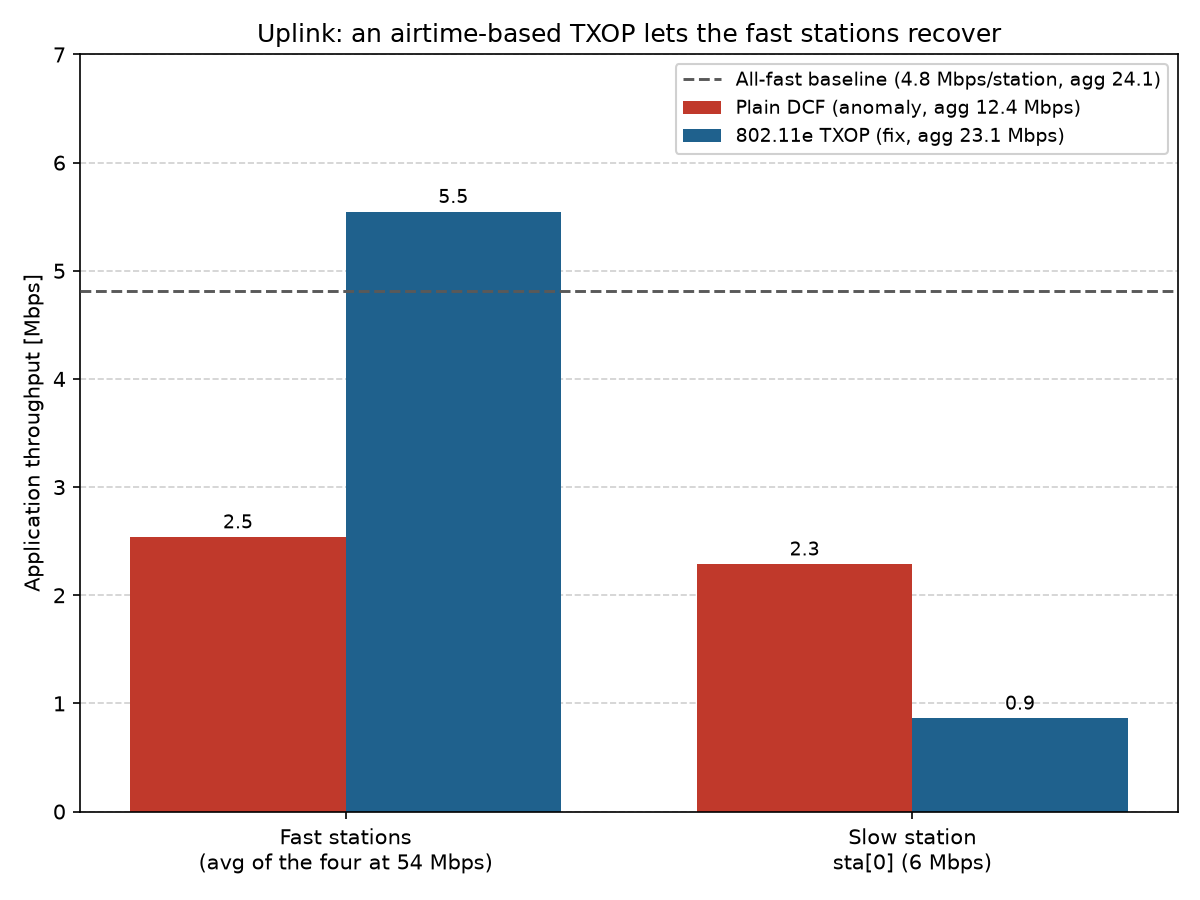
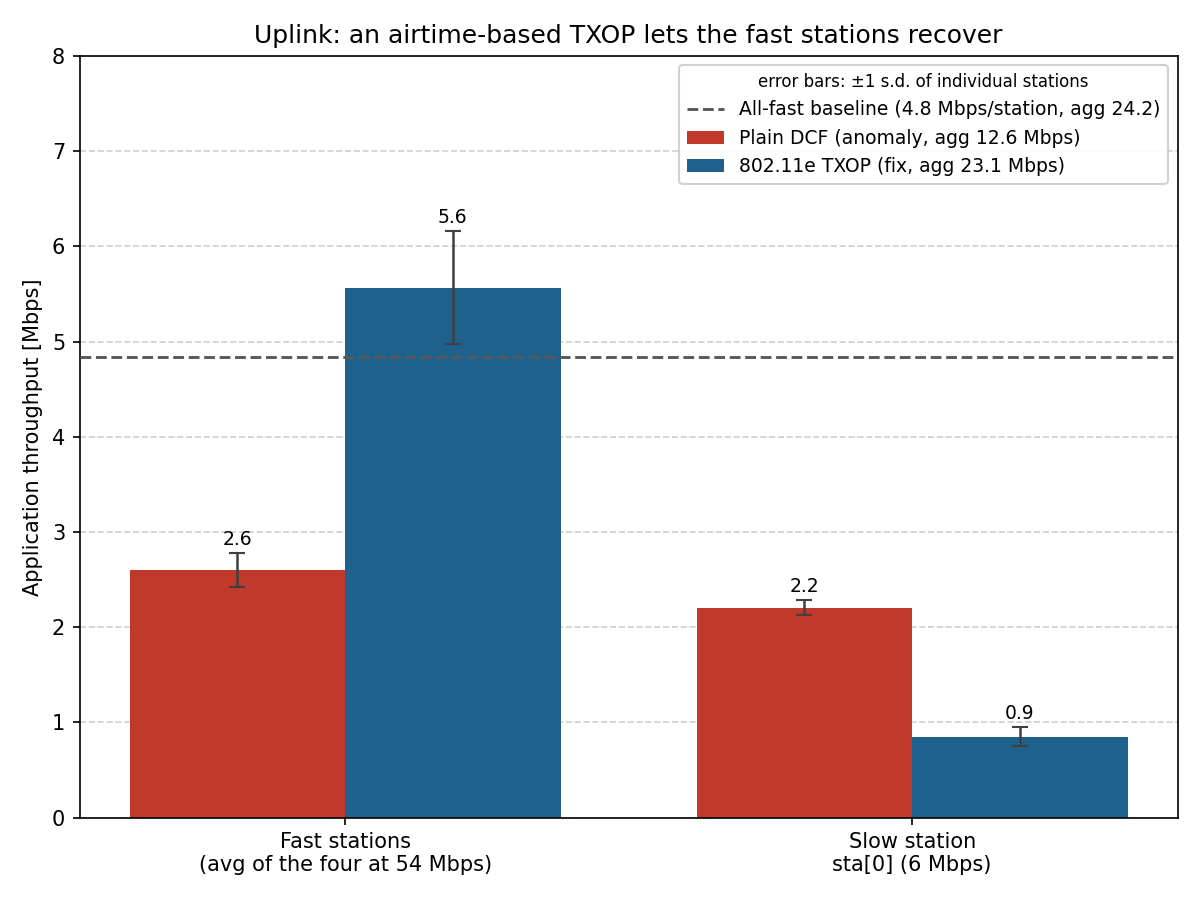
showcases/wireless/rateanomaly: re-measure the uplink over ten repetitions
Pre-association changed every uplink realisation, so all three figures and the
numbers quoted from them were re-recorded against the current configuration.

The TXOP comparison now averages ten repetitions rather than three and its bars
carry error bars: +-1 s.d. of the individual station values, which is the
quantity the page's caveat claims, not the uncertainty of the mean. That makes
the caveat's point visible instead of merely asserted -- the fast group scatters
+-0.6 Mbps under TXOP against +-0.2 under plain DCF, because EDCA allocates wins
at random and only bounds what a win is worth. Ten repetitions rather than three
because three points do not estimate a spread. The recorded commands now also
pass --vector-recording=false: the chart reads scalars only, and the vectors ran
to gigabytes.

The two single-run Results charts were re-rendered from fresh runs. Their seed
reads less flat than the previous one did -- the four fast stations agree within
about 9% and the slow station sits some 16% below them -- which is exactly the
structure the figure recipe records for n=10, so the prose now states it rather
than quoting a flatter single-run spread.

Group averages are essentially unchanged: TXOP 0.85 / 5.57 / 23.11 Mbps against
the published 0.86 / 5.55 / 23.1.

diff --git a/showcases/wireless/rateanomaly/ul-chart.py b/showcases/wireless/rateanomaly/ul-chart.py
@@ -1,8 +1,9 @@
 #!/usr/bin/env python3
 # Generates doc/media/txop-throughput.png: uplink application throughput under plain DCF (the
 # rate anomaly) vs 802.11e airtime-based TXOP, at a single 6-versus-54 Mbps rate gap. Both
-# configs are averaged over 3 repetitions -- DCF is not deterministic (the backoff draws from
-# the RNG), so both are averaged the same way.
+# configs are averaged over 10 repetitions -- DCF is not deterministic (the backoff draws from
+# the RNG), so both are averaged the same way. Ten rather than three because the bars carry
+# error bars, and three points do not estimate a spread.
 #
 # Plotted as the fast-station GROUP average and the slow station, with the aggregates carried
 # in the legend -- deliberately NOT per station. EDCA allocates wins at random and only bounds
@@ -14,9 +15,9 @@
 # The dashed line is the all-fast reference: UplinkHomogeneous, the same cell with no rate gap.
 #
 # Reproduce (from this showcase directory):
-#   inet -u Cmdenv -c UplinkHomogeneous -r 0..2 --repeat=3 --result-dir=results/solve
-#   inet -u Cmdenv -c UplinkAnomaly     -r 0..2 --repeat=3 --result-dir=results/solve
-#   inet -u Cmdenv -c UplinkTxop        -r 0..2 --repeat=3 --result-dir=results/solve
+#   inet -u Cmdenv -c UplinkHomogeneous -r 0..9 --repeat=10 --vector-recording=false --result-dir=results/solve
+#   inet -u Cmdenv -c UplinkAnomaly     -r 0..9 --repeat=10 --vector-recording=false --result-dir=results/solve
+#   inet -u Cmdenv -c UplinkTxop        -r 0..9 --repeat=10 --vector-recording=false --result-dir=results/solve
 #   python3 ul-chart.py
 #
 # The comparison results live in results/solve/ (not results/) so they do not contaminate the
@@ -40,15 +41,26 @@ def runs(config):
     return out
 
 def summarise(config):
+    """Slow station and fast-station group, each as (mean, sd), plus the mean aggregate.
+
+    The error bars are the spread of the INDIVIDUAL station values -- every sta[1..4] reading
+    from every repetition for the fast group, sta[0]'s ten readings for the slow one -- not the
+    uncertainty of the mean. They answer "how differently do two stations fare in one run",
+    which is what the page's caveat claims.
+    """
     r = runs(config)
     n = len(r)
-    return (sum(x[0] for x in r) / n,                 # slow station
-            sum(sum(x[1:]) / 4 for x in r) / n,       # fast-station average
-            sum(sum(x) for x in r) / n)               # aggregate
+    slow = [x[0] for x in r]
+    fast = [v for x in r for v in x[1:]]
+    return (mean_sd(slow), mean_sd(fast), sum(sum(x) for x in r) / n)
 
-dcf_slow, dcf_fast, dcf_agg = summarise("UplinkAnomaly")
-tx_slow, tx_fast, tx_agg = summarise("UplinkTxop")
-base_slow, base_fast, base_agg = summarise("UplinkHomogeneous")
+def mean_sd(v):
+    m = sum(v) / len(v)
+    return m, (sum((x - m) ** 2 for x in v) / (len(v) - 1)) ** 0.5
+
+(dcf_slow, dcf_slow_sd), (dcf_fast, dcf_fast_sd), dcf_agg = summarise("UplinkAnomaly")
+(tx_slow, tx_slow_sd), (tx_fast, tx_fast_sd), tx_agg = summarise("UplinkTxop")
+(base_slow, _), (base_fast, _), base_agg = summarise("UplinkHomogeneous")
 baseline = base_agg / 5   # all-fast, per-station
 
 x = np.arange(2)
@@ -57,9 +69,12 @@ plt.figure(figsize=(8, 6))
 ax = plt.gca()
 ax.axhline(baseline, color="0.35", ls="--", lw=1.4, zorder=3,
            label=f"All-fast baseline ({baseline:.1f} Mbps/station, agg {base_agg:.1f})")
+ebar = dict(capsize=4, ecolor="0.25", error_kw={"lw": 1.2, "zorder": 4})
 b1 = ax.bar(x - w/2, [dcf_fast, dcf_slow], w, color="#c0392b",
+            yerr=[dcf_fast_sd, dcf_slow_sd], **ebar,
             label=f"Plain DCF (anomaly, agg {dcf_agg:.1f} Mbps)")
 b2 = ax.bar(x + w/2, [tx_fast, tx_slow], w, color="#1f618d",
+            yerr=[tx_fast_sd, tx_slow_sd], **ebar,
             label=f"802.11e TXOP (fix, agg {tx_agg:.1f} Mbps)")
 ax.bar_label(b1, fmt="%.1f", padding=2, fontsize=9)
 ax.bar_label(b2, fmt="%.1f", padding=2, fontsize=9)
@@ -69,11 +84,12 @@ ax.set_ylabel("Application throughput [Mbps]")
 ax.set_title("Uplink: an airtime-based TXOP lets the fast stations recover")
 ax.grid(True, axis="y", linestyle="--", alpha=0.6)
 ax.set_axisbelow(True)
-ax.set_ylim(0, 7)
-ax.legend(loc="upper right", framealpha=0.9, fontsize=9)
+ax.set_ylim(0, 8)
+ax.legend(loc="upper right", framealpha=0.9, fontsize=9,
+          title="error bars: \u00b11 s.d. of individual stations", title_fontsize=8)
 plt.tight_layout()
 plt.savefig("doc/media/txop-throughput.png", dpi=150, transparent=True)
 print("saved doc/media/txop-throughput.png")
-print(f"  DCF   slow={dcf_slow:.2f} fast={dcf_fast:.2f} agg={dcf_agg:.1f}")
-print(f"  TXOP  slow={tx_slow:.2f} fast={tx_fast:.2f} agg={tx_agg:.1f}")
+print(f"  DCF   slow={dcf_slow:.2f}+-{dcf_slow_sd:.2f} fast={dcf_fast:.2f}+-{dcf_fast_sd:.2f} agg={dcf_agg:.1f}")
+print(f"  TXOP  slow={tx_slow:.2f}+-{tx_slow_sd:.2f} fast={tx_fast:.2f}+-{tx_fast_sd:.2f} agg={tx_agg:.1f}")
 print(f"  base  per-station={baseline:.2f} agg={base_agg:.1f}")

diff --git a/showcases/wireless/rateanomaly/doc/index.rst b/showcases/wireless/rateanomaly/doc/index.rst
@@ -215,7 +215,7 @@ table in this section each come from **one run**, so they show a concrete realis
 rather than an average: the anomaly aggregate reads 12.0 Mbps here, against 12.4 Mbps for the
 mean of the three runs used in the TXOP comparison later. The effect being shown is far larger
 than that scatter, but the per-station detail is not — the frame counts below, which by theory
-should be equal, still spread by about ±10% within a single run.
+should be equal, still spread by about ±9% among the fast stations within a single run.
 The two later charts that compare a *fix* against the anomaly do average three
 repetitions, because there the differences being plotted are comparable to the scatter.
 
@@ -249,7 +249,8 @@ level, settling just above the floor it sets:
 
 The reason is visible in the raw frame counts: over the measurement interval every
 station — fast or slow — successfully transmits a similar *number* of frames, about
-1,090 to 1,270 in this run — within ±10% of each other, against the six-fold airtime
+1,080 to 1,480 in this run: the four fast stations agree within about 9%, and the slow
+station sits some 16% below them — small change against the six-fold airtime
 difference that follows. DCF hands out transmission opportunities at roughly the same
 rate to everyone, exactly as designed. But each of the
 slow station's frame exchanges tied up the channel several times longer — around six
@@ -268,8 +269,8 @@ included — so it consumed most of the channel time and left little for the oth
              four fast stations agree within 8% and the slow station sits ~16% below them.
              How flat ONE run reads is pure seed luck, and the seed moved twice as the
              sweep was cut (6 points -> 4 -> none), because seed-set defaults to the run
-             number: bars were +-4% at seed 5, +-8% at seed 3, and are 1087..1268 (+-10%)
-             at seed 0 now. That is honest -- the prose quotes the +-10% spread -- but if
+             number: bars were +-4% at seed 5, +-8% at seed 3, and are 1080..1482 (+-15%)
+             at seed 0 now. That is honest -- the prose quotes the +-15% spread -- but if
              the figure ever needs to read flat, record 10+ reps rather than hunting for a
              flattering seed. The chart script averages duplicates, so reps just work.
    record:   inet -u Cmdenv -c UplinkHomogeneous -r 0
@@ -334,8 +335,8 @@ frame-count chart above), the slow station's far longer frames let it swallow a
 correspondingly larger share of channel time — dragging every station's throughput down
 toward its own.
 
-The cost to the network as a whole is severe. The aggregate falls from 24.1 Mbps in the
-baseline to 12.0 Mbps here — **one slow station halves the capacity of the entire cell**,
+The cost to the network as a whole is severe. The aggregate falls from 24.4 Mbps in the
+baseline to 12.9 Mbps here — **one slow station halves the capacity of the entire cell**,
 and it does so without any of the other four being misconfigured, weak, or overloaded. The
 fast stations' own throughput falls almost in step with the slow station's even though their
 configuration never changes. That is the rate anomaly: equal access, unequal airtime.
@@ -426,13 +427,17 @@ their throughput back:
    shows:    fast-station-average and slow-station application throughput, plain DCF vs
              802.11e TXOP, at the single 6-vs-54 Mbps rate gap; aggregates carried in the
              legend, all-fast baseline as a dashed line
-   inputs:   results/solve/{UplinkAnomaly,UplinkTxop,UplinkHomogeneous}-#*.sca, ALL 3 reps
-             (DCF is not deterministic -- same RNG/backoff -- so all three are averaged alike)
-   record:   inet -u Cmdenv -c UplinkHomogeneous -r 0..2 --repeat=3 --result-dir=results/solve
-             inet -u Cmdenv -c UplinkAnomaly     -r 0..2 --repeat=3 --result-dir=results/solve
-             inet -u Cmdenv -c UplinkTxop        -r 0..2 --repeat=3 --result-dir=results/solve
+   inputs:   results/solve/{UplinkAnomaly,UplinkTxop,UplinkHomogeneous}-#*.sca, ALL 10 reps
+             (DCF is not deterministic -- same RNG/backoff -- so all ten are averaged alike;
+             ten rather than three because the bars carry error bars)
+   record:   inet -u Cmdenv -c UplinkHomogeneous -r 0..9 --repeat=10 --vector-recording=false --result-dir=results/solve
+             inet -u Cmdenv -c UplinkAnomaly     -r 0..9 --repeat=10 --vector-recording=false --result-dir=results/solve
+             inet -u Cmdenv -c UplinkTxop        -r 0..9 --repeat=10 --vector-recording=false --result-dir=results/solve
    metric:   server.app[*] packetReceived:count x 0.002 -> Mbps; aggregate = sum over the 5
-             apps per run, fast-avg = mean over app[1..4]; all configs averaged over 3 reps
+             apps per run, fast-avg = mean over app[1..4]; all configs averaged over 10 reps.
+             Error bars are +-1 s.d. of the INDIVIDUAL station values (every sta[1..4] reading
+             from every rep for the fast bar, sta[0]'s ten readings for the slow one), not the
+             uncertainty of the mean
    anchor:   structural -- if the UplinkAnomaly/UplinkTxop configs change, re-derive. The
              comparison results are kept out of results/ root so they don't contaminate the
              single-run .anf charts (whose filters match packetReceived:count of any config).
@@ -441,10 +446,10 @@ their throughput back:
              ../dl-chart.py DOES plot per station because that scheduler is deterministic.
    stamp:    captured 2026-07, INET 4.6
 
-The fast-station average recovers from 2.5 Mbps under DCF to 5.5 Mbps under TXOP — better than
+The fast-station average recovers from 2.6 Mbps under DCF to 5.6 Mbps under TXOP — better than
 double, and comfortably past the 4.8 Mbps each station gets in the no-rate-gap baseline (the
-dashed line). The aggregate climbs from 12.4 to 23.1 Mbps, recovering nearly all of the 24.1
-Mbps the cell manages with no slow station at all. The slow station itself falls from 2.3 to
+dashed line). The aggregate climbs from 12.6 to 23.1 Mbps, recovering nearly all of the 24.2
+Mbps the cell manages with no slow station at all. The slow station itself falls from 2.2 to
 0.9 Mbps — and that *is* airtime fairness, not a side-effect: given only its fair share of
 time, a 6 Mbps station can clock out proportionally fewer bits, so it stops monopolising the
 medium and the others get their time back.
@@ -468,12 +473,15 @@ same principle — allocate channel *time*, not transmission *count* — but in 
 
 One honest caveat — and the reason the chart above plots a *group* average rather than the five
 stations separately. TXOP restores the aggregate capacity and the fast-station group reliably, but
-it does **not** hand each individual station equal airtime. Over ten seeds the four fast stations
-land anywhere between 4.1 and 6.8 Mbps around their 5.6 Mbps mean, because EDCA still allocates
-*wins* at random and only bounds what a win is worth; a station that wins a few more times in four
-seconds keeps the difference. The group average is steady across the same seeds — the aggregate
-stays within 22.2 to 24.6 Mbps — so the system-level result is robust where the per-station one is
-not. The downlink fix below *is* per-station fair, for a reason that is worth the contrast.
+it does **not** hand each individual station equal airtime — which is what the error bars show.
+Over the ten repetitions the four fast stations land anywhere between 4.1 and 6.8 Mbps around
+their 5.6 Mbps mean, because EDCA still allocates *wins* at random and only bounds what a win is
+worth; a station that wins a few more times in four seconds keeps the difference. Plain DCF has no
+such spread — its stations are held together at ±0.2 Mbps precisely because equal frame counts is
+what it enforces — so the two configurations differ in their scatter as well as in their means.
+The group average is steady across the same repetitions — the aggregate stays within 22.2 to 24.6
+Mbps — so the system-level result is robust where the per-station one is not. The downlink fix
+below *is* per-station fair, for a reason that is worth the contrast.
 
 The Downlink Form: Airtime Fairness at the Access Point
 -------------------------------------------------------
@@ -667,7 +675,7 @@ longer, and serving them one-for-one with the fast clients' frames lets them swa
 airtime — so all five clients collapse to about 2.7 Mbps and the aggregate falls to ~14 Mbps.
 Airtime fairness reverses it: charged for the time they occupy, the four fast clients climb back
 to about 5.3 Mbps each — almost exactly double — and the aggregate recovers to ~22 Mbps. (They
-stop a little short of the ~5.5 Mbps a fast station reaches under uplink TXOP: here all five flows
+stop a little short of the ~5.6 Mbps a fast station reaches under uplink TXOP: here all five flows
 funnel through the one access-point queue rather than five independent radios.)
 
 The dashed line is what the same cell delivers with no rate gap at all — ``[Config
